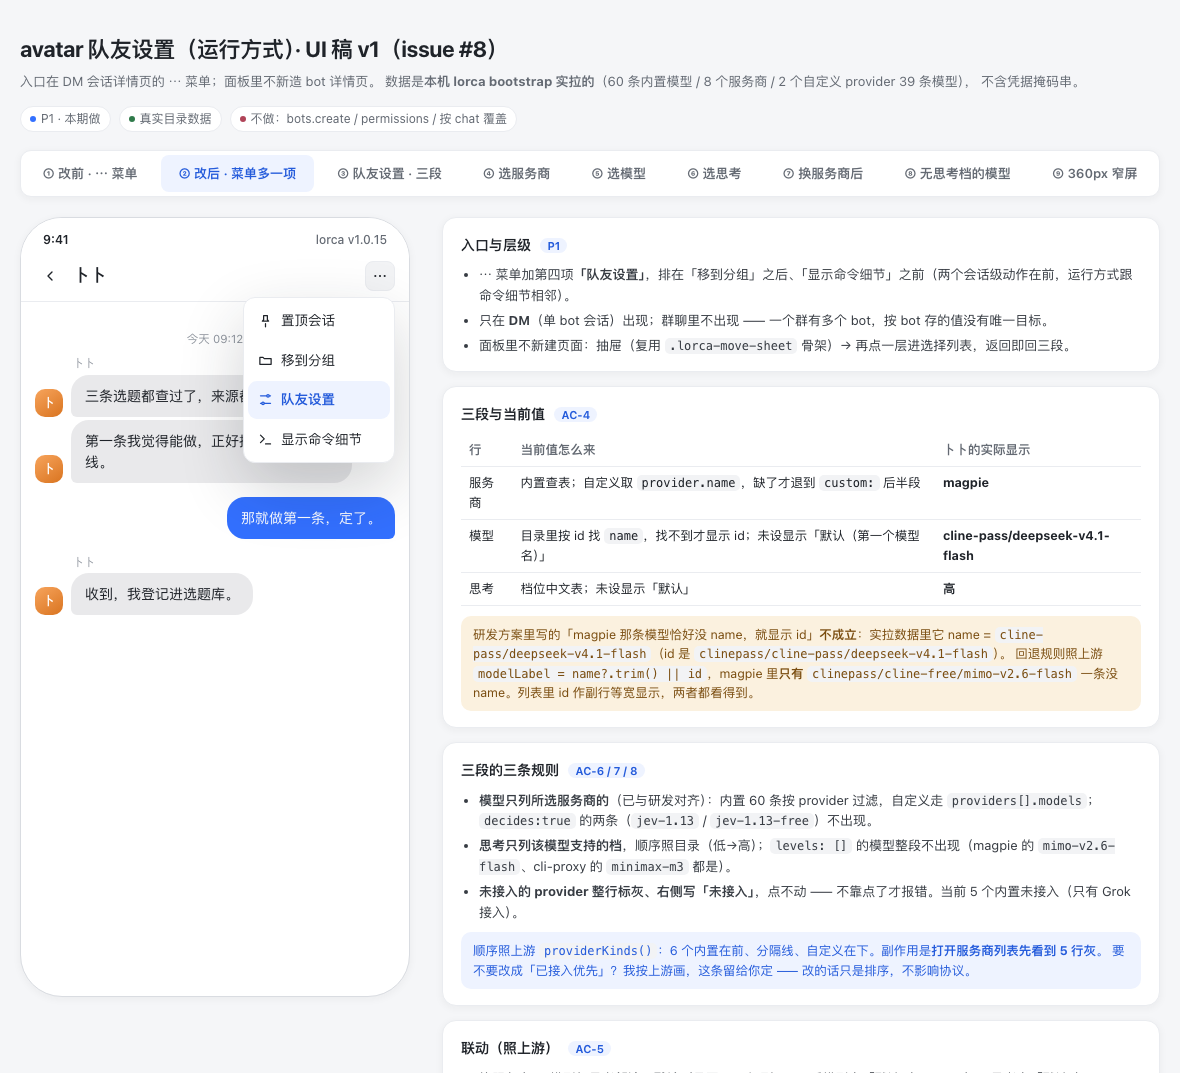
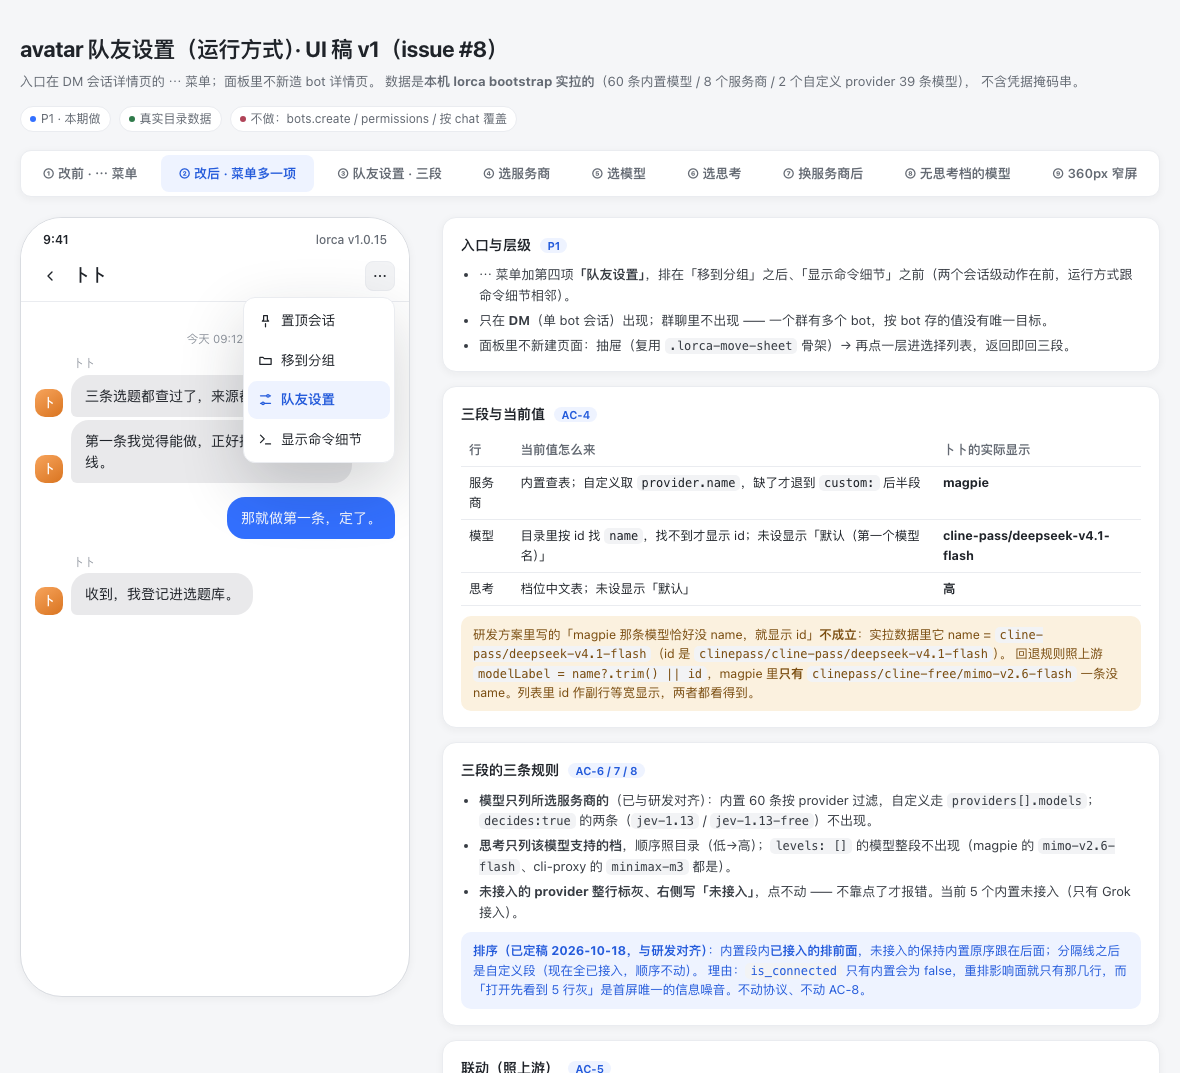
lorca-bot-settings: v2 —— 服务商列表已接入优先（内置段内重排，分隔线与自定义段不动），探针 26/26

Changed region(s): [[0.3966, 0.8611, 0.9458, 0.9534], [0.3661, 0.9534, 0.5186, 1.0]]

diff --git a/lorca-bot-settings/index.html b/lorca-bot-settings/index.html
@@ -301,8 +301,8 @@
           <li><b>未接入的 provider 整行标灰、右侧写「未接入」</b>，点不动 —— 不靠点了才报错。当前 5 个内置未接入（只有 Grok 接入）。</li>
         </ul>
         <div class="note is-info">
-          顺序照上游 <code>providerKinds()</code>：6 个内置在前、分隔线、自定义在下。副作用是<b>打开服务商列表先看到 5 行灰</b>。
-          要不要改成「已接入优先」？我按上游画，这条留给你定 —— 改的话只是排序，不影响协议。
+          <b>排序（已定稿 2026-10-18，与研发对齐）</b>：内置段内<b>已接入的排前面</b>，未接入的保持内置原序跟在后面；分隔线之后是自定义段（现在全已接入，顺序不动）。
+          理由：<code>is_connected</code> 只有内置会为 false，重排影响面就只有那几行，而「打开先看到 5 行灰」是首屏唯一的信息噪音。不动协议、不动 AC-8。
         </div>
       </div>
 
@@ -370,12 +370,15 @@ function catalog() {
   return [...window.CATALOG_MODELS.map((m) => ({ ...m })), ...custom];
 }
 
-/* 服务商列表：内置在前（固定 6 个），分隔线，自定义在下；决策型自定义不进。 */
+/* 服务商列表：内置在前（已接入的排前面，其余保持内置原序），分隔线，自定义在下；决策型自定义不进。
+   只有内置的 is_connected 会为 false，所以重排只影响未接入的那几行。 */
 function providerChoices() {
-  const builtin = BUILTIN_KINDS.map((kind) => ({
-    kind, label: providerLabel(kind), group: "builtin",
-    connected: !!providerStatus(kind)?.is_connected
-  }));
+  const builtin = BUILTIN_KINDS
+    .map((kind) => ({
+      kind, label: providerLabel(kind), group: "builtin",
+      connected: !!providerStatus(kind)?.is_connected
+    }))
+    .sort((a, b) => Number(b.connected) - Number(a.connected));
   const custom = window.CATALOG_PROVIDERS
     .filter((p) => isCustomProvider(p.kind) && !isDecisionAPI(p.api))
     .map((p) => ({ kind: p.kind, label: providerLabel(p.kind), group: "custom", connected: !!p.is_connected }));
